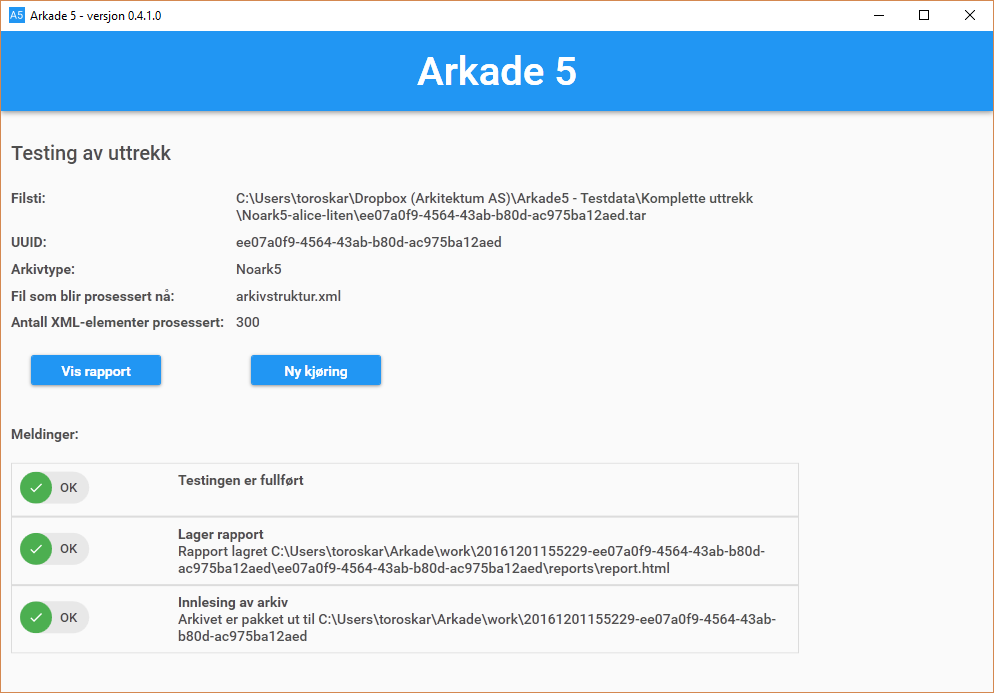
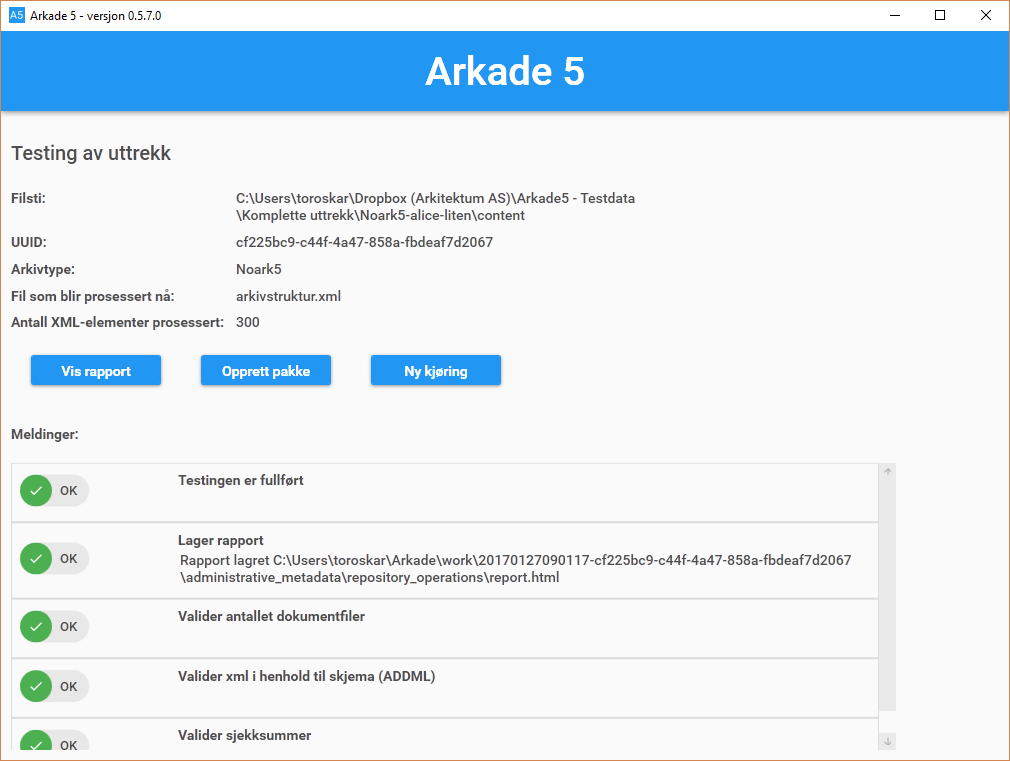
Updated documentation

diff --git a/docs/Brukerveiledning.rst b/docs/Brukerveiledning.rst
@@ -12,7 +12,7 @@ Oppstartskjerm
 
 .. image:: img/StartupScreen.png
 
-Arkivet kan enten velges som en .tar fil eller rot mappen i en filstruktur (samme nivå som ADDML.XML filen). Valgene gjøres med henholdsvis "Velg tar-fil" eller "Velg katalog" knappen.
+Arkivet kan enten velges som en .tar av AIP eller SIP struktur rot mappen i en filstruktur (samme nivå som ADDML.XML filen). Valgene gjøres med henholdsvis "Velg tar-fil" eller "Velg katalog" knappen.
 Videre må det velges hva slags type arkiv det er ved å velge radio knappen for Norak3, Noark4, Noark5 eller Fagsystem.
 Når disse to valgene er gjort, kan "Start testing" knappen trykkes for å kjøre testene.
 
@@ -43,6 +43,13 @@ knappen "Vis rapport". Et eksempel er vist nedenfor.
 
 .. image:: img/TestReport.png
 
+
+Lag arkiv pakke
+~~~~~~~~~~~~~~~
+
+.. image:: img/GeneratePackage.png
+
+.. image:: img/PakkeStruktur.png
 
 Fil informasjon
 ~~~~~~~~~~~~~~~
